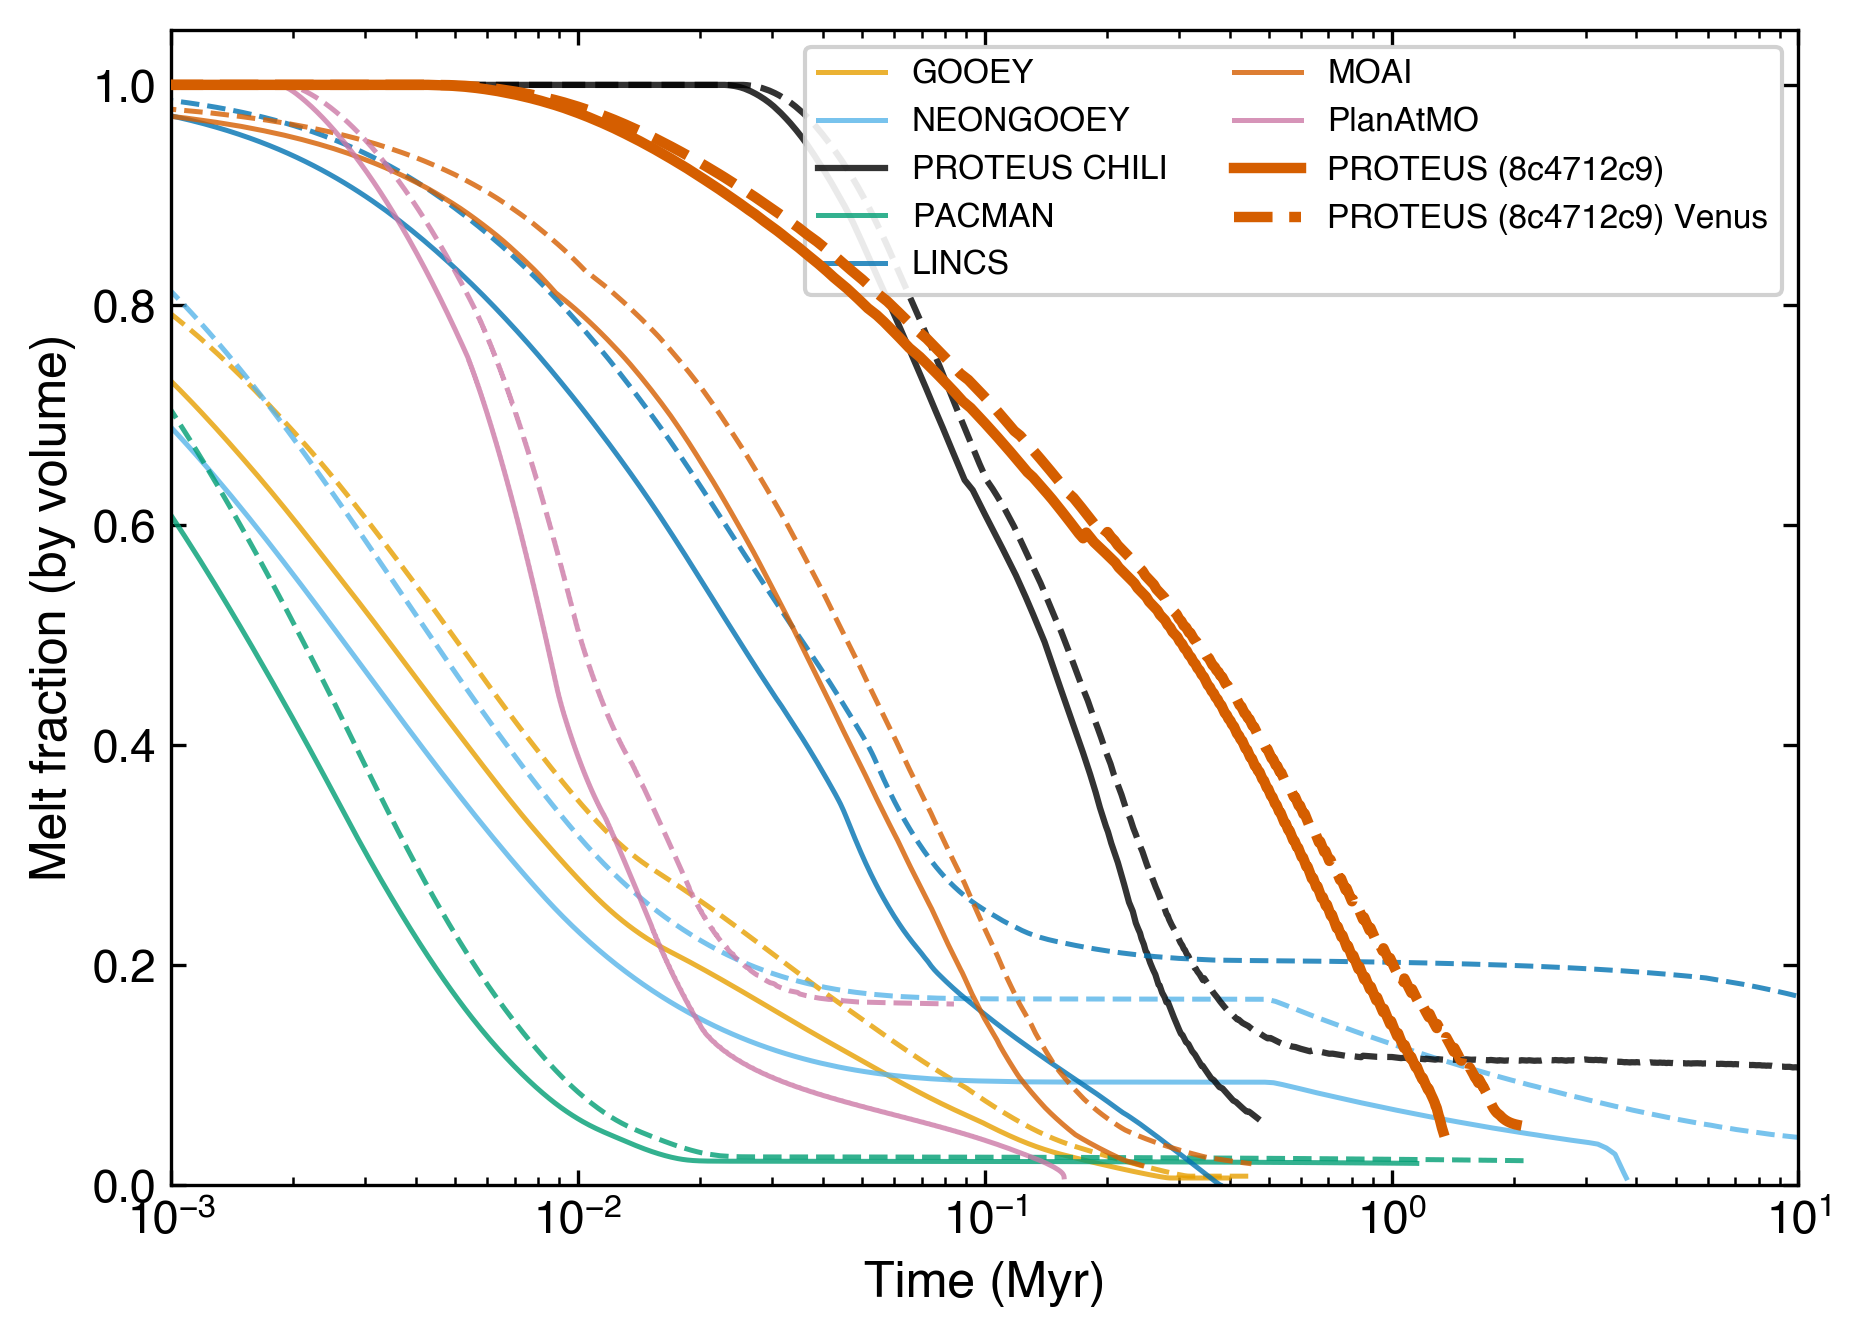
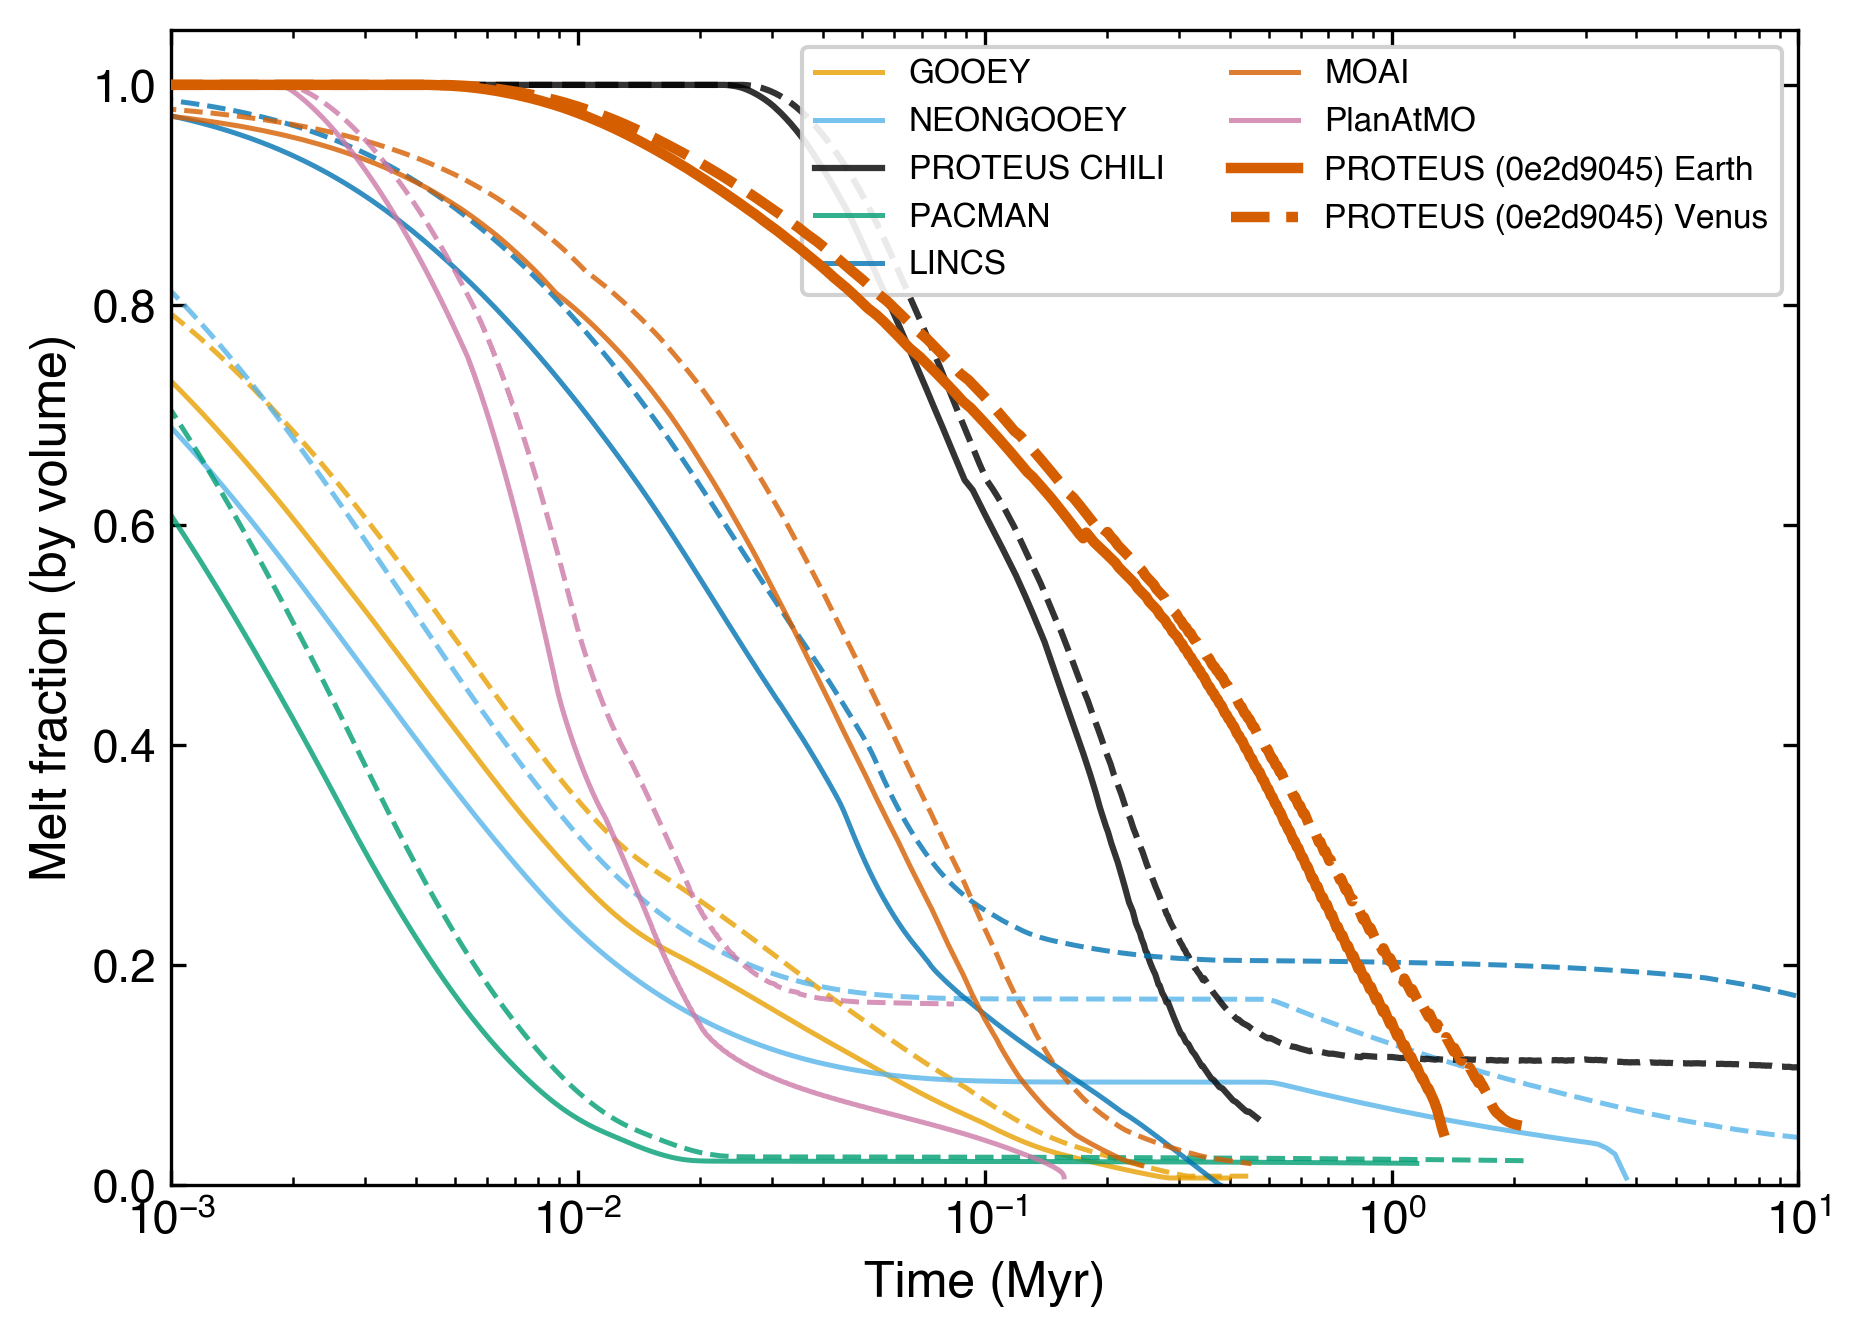
Label the current PROTEUS Earth curve in the melt-fraction figure
The melt-fraction figure shows the current PROTEUS run for both Earth
(solid) and Venus (dashed), but only the Venus curve was named in the
legend. Add the Earth label so both planets are explicit.

Changed region(s): [[0.686, 0.0307, 0.9355, 0.184], [0.4989, 0.0307, 0.6237, 0.2147], [0.4054, 0.0613, 0.4366, 0.1533]]

diff --git a/tools/plot_chili_comparison.py b/tools/plot_chili_comparison.py
@@ -334,7 +334,7 @@ def plot_fig1(intercomp, pe, pv, NS, out):
             '-',
             color=NS['color'],
             linewidth=NS['linewidth'],
-            label=NS['label'],
+            label=NS['label'] + ' Earth',
             zorder=NS['zorder'],
         )
     if pv is not None: